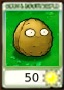
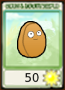
main game frame done

diff --git a/GamePanel.java b/GamePanel.java
@@ -21,7 +21,7 @@ public class GamePanel extends JLayeredPane implements MouseMotionListener {
 
     private final Image sunflowerIdleAnim = new ImageIcon(Objects.requireNonNull(this.getClass().getResource("images/animations/sunflowerIdle.gif"))).getImage();
 
-    private Image wallnutImage = new ImageIcon(Objects.requireNonNull(this.getClass().getResource("images/animations/wallnutIdle.png"))).getImage();
+    private Image wallnutImage = new ImageIcon(Objects.requireNonNull(this.getClass().getResource("images/animations/wallnutIdle.gif"))).getImage();
 
     private JLabel sunScoreBoard;
     private ArrayList<Sun> activeSuns;
@@ -60,7 +60,7 @@ public class GamePanel extends JLayeredPane implements MouseMotionListener {
         generateTimer.start();
 
         activeSuns = new ArrayList<>();
-        Timer sunProducer = new Timer(((int)(Math.random() * 3) + 1) * 4500, (ActionEvent e) -> {
+        Timer sunProducer = new Timer(((int)(Math.random() * 3) + 1) * 4000, (ActionEvent e) -> {
             Random rand = new Random();
             Sun sun = new Sun(this, rand.nextInt(800) + 100, 0, rand.nextInt(300) + 200);
             activeSuns.add(sun);
@@ -68,7 +68,7 @@ public class GamePanel extends JLayeredPane implements MouseMotionListener {
         });
         sunProducer.start();
 
-        Timer zombieSpawner = new Timer( (int)((Math.random() * 2) + 1) * 5000 , (ActionEvent e) -> {
+        Timer zombieSpawner = new Timer( (int)((Math.random() * 2) + 1) * 7500 , (ActionEvent e) -> {
             int lane = (int)(Math.random() * 5);
             Zombie zombie = new Zombie(this, lane);
             activeZombies.get(lane).add(zombie);
@@ -133,7 +133,7 @@ public class GamePanel extends JLayeredPane implements MouseMotionListener {
 
             if (currentPlantingBrush == GameScreen.PlantType.Wallnut) {
                 if (getSunScore() >= 50) {
-                    colliders[x + y * 9].setPlant(new Wallnut(GamePanel.this, x, y, 400));
+                    colliders[x + y * 9].setPlant(new Wallnut(GamePanel.this, x, y, 1000));
                     setSunScore(getSunScore() - 50);
                 }
             }
@@ -155,8 +155,6 @@ public class GamePanel extends JLayeredPane implements MouseMotionListener {
                 z.create();
             }
         }
-
-
     }
     @Override
     protected void paintComponent(Graphics g) {
@@ -210,6 +208,7 @@ public class GamePanel extends JLayeredPane implements MouseMotionListener {
             Collider c = colliders[i];
             if (c.assignedPlant != null) {
                 Plant p = c.assignedPlant;
+                g.drawString(Integer.toString(p.getHealth()), 69 + (i % 9) * 104, 129 + (i / 9) * 115);
                 if (p instanceof Peashooter) {
                     if(((Peashooter) p).isShooting()){
                         g.drawImage(peashooterShootingAnim, 60 + (i % 9) * 100, 129 + (i / 9) * 120, null);

diff --git a/Zombie.java b/Zombie.java
@@ -34,10 +34,10 @@ public class Zombie extends JPanel {
             if (xCord < 10) {
                 JOptionPane.showMessageDialog(gp,"The zombies ate your brain!! ggs");
             } else {
-                xCord--;
+                xCord-= 0.7;
             }
         }else{
-            plantInMyLane.assignedPlant.setHealth(plantInMyLane.assignedPlant.getHealth() - 5);
+            plantInMyLane.assignedPlant.setHealth(plantInMyLane.assignedPlant.getHealth() - 3);
             if (plantInMyLane.assignedPlant.getHealth() < 0) {
                 plantInMyLane.removePlant();
             }

diff --git a/Pea.java b/Pea.java
@@ -18,7 +18,7 @@ public class Pea {
             Zombie z = gp.getActiveZombies().get(myLane).get(i);
             Rectangle zRect = new Rectangle(z.getXCord(), 109 + myLane * 120, 400, 120);
             if (peaRect.intersects(zRect)) {
-                z.setHealth(z.getHealth() - 50);
+                z.setHealth(z.getHealth() - 75);
                 boolean exit = false;
                 gp.getPeaLanes().get(myLane).remove(this);
                 if (z.getHealth() < 0) {
